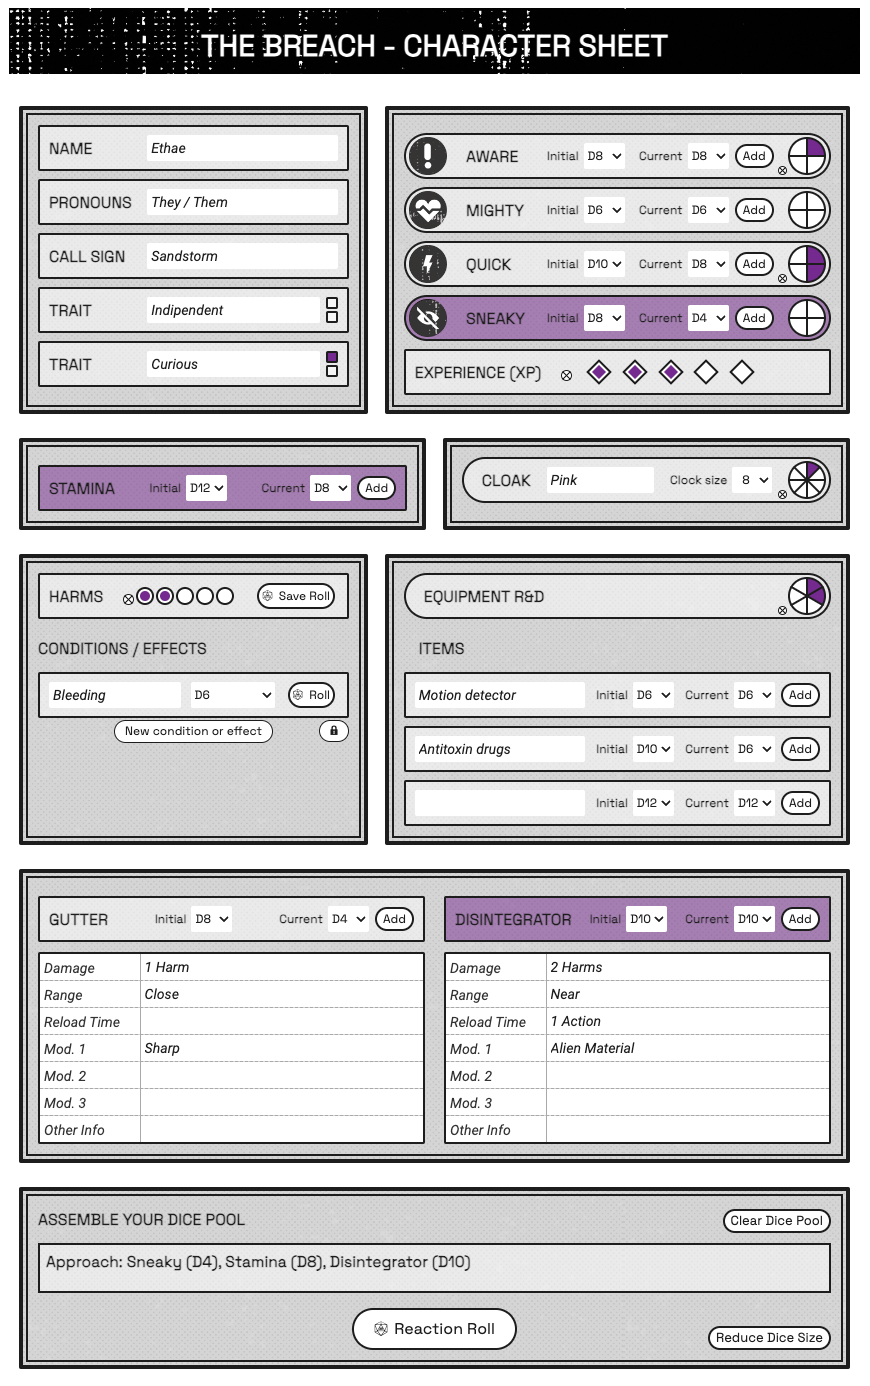
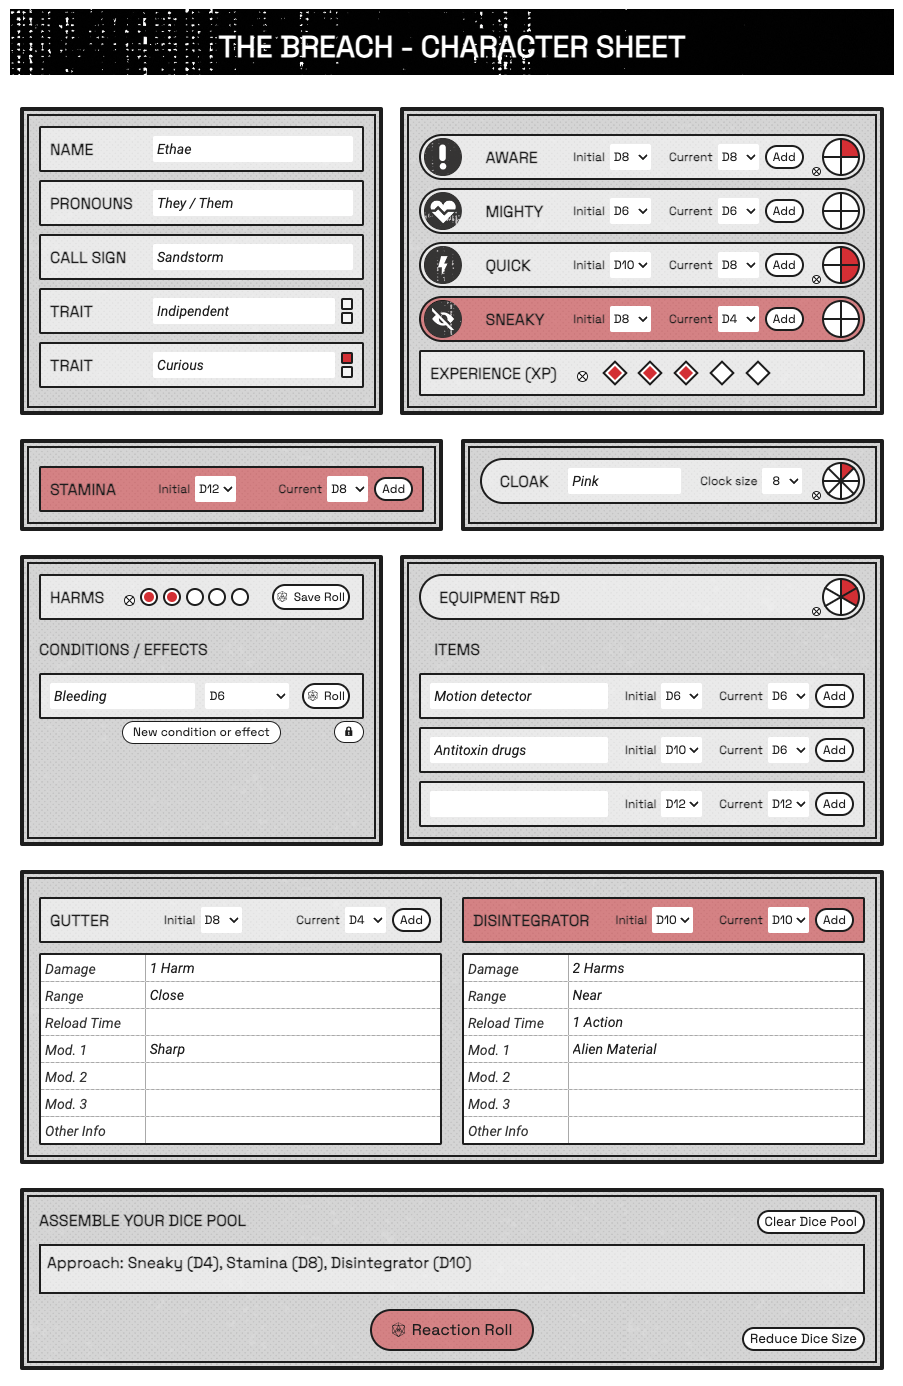
Change accent color

Changed region(s): [[0.0, 0.0, 0.9931, 0.9928], [0.4655, 0.0, 0.7759, 0.062]]

diff --git a/the-breach.css b/the-breach.css
@@ -9,7 +9,8 @@
     --the-breach-black: #1D1D1D;
     --the-breach-darkgrey: #5D5D5D;
     --the-breach-white: #FFFFFF;
-    --the-breach-accent-color: #702C91;
+    --the-breach-accent-color: #cb2e2e;
+    --the-breach-accent-transparent: rgb(203 46 46 / 50%);
 }
 
 * {
@@ -288,7 +289,7 @@ button.add-die, button.save-roll, button.condition-roll {
 
 button[type="action"]:hover, button[type="roll"]:hover, 
 .repcontrol button:hover, .itemcontrol .repcontrol_move:hover {
-    background-color: #c6abd2 !important;
+    background-color: var(--the-breach-accent-transparent) !important;
 }
 
 /* ICONS */
@@ -691,7 +692,7 @@ button[type=roll]::before {
     display: none;
 }
 .selectable-die[value="selected"] + .line {
-    background-color: rgba(112, 44, 145, 0.5);
+    background-color: var(--the-breach-accent-transparent);
 }
 
 /* permanent condition roll button */
